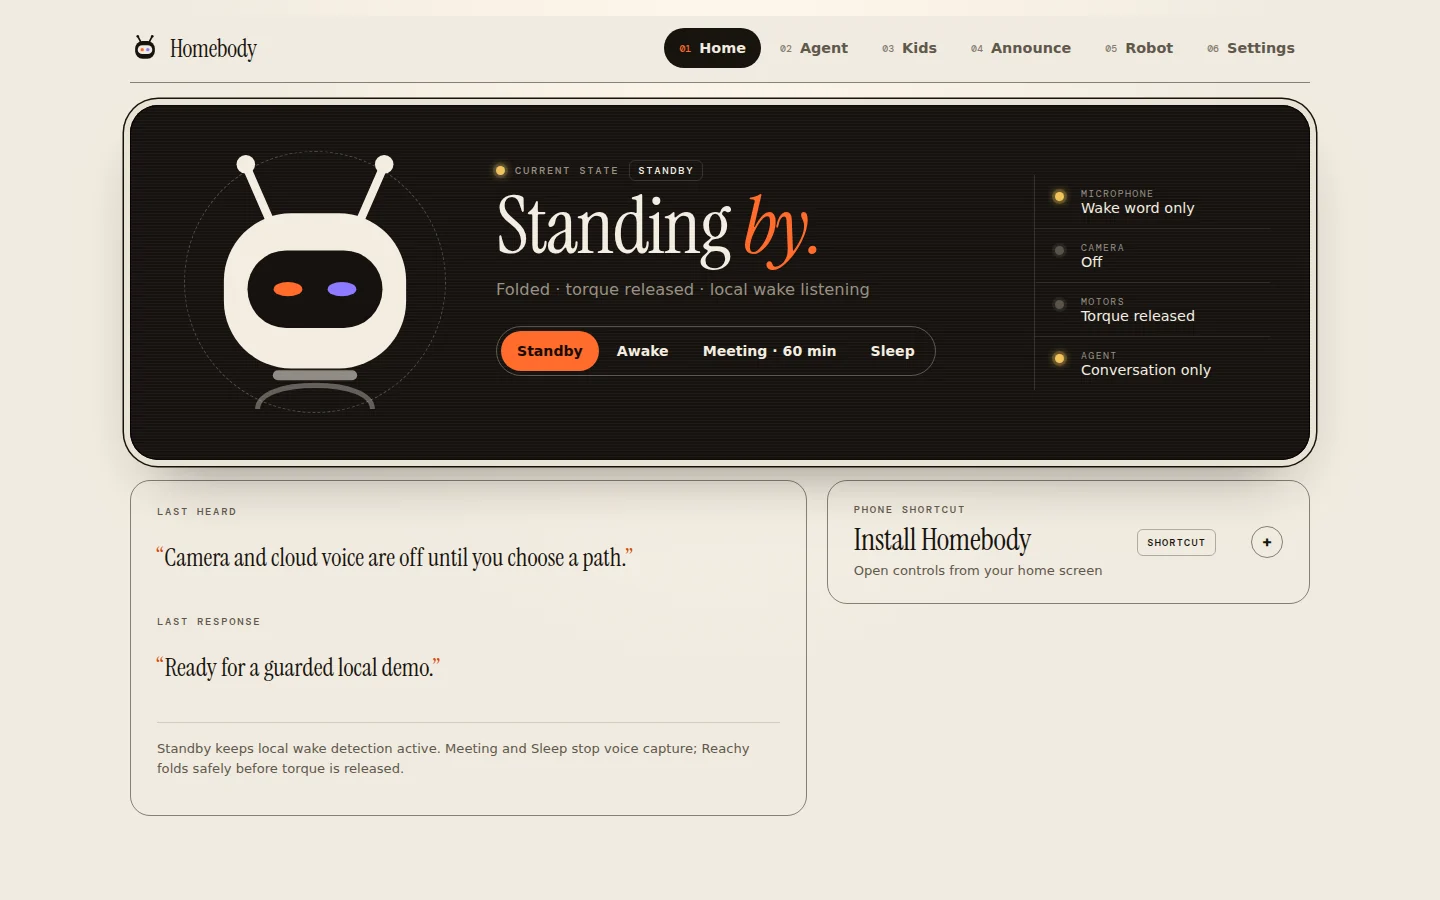
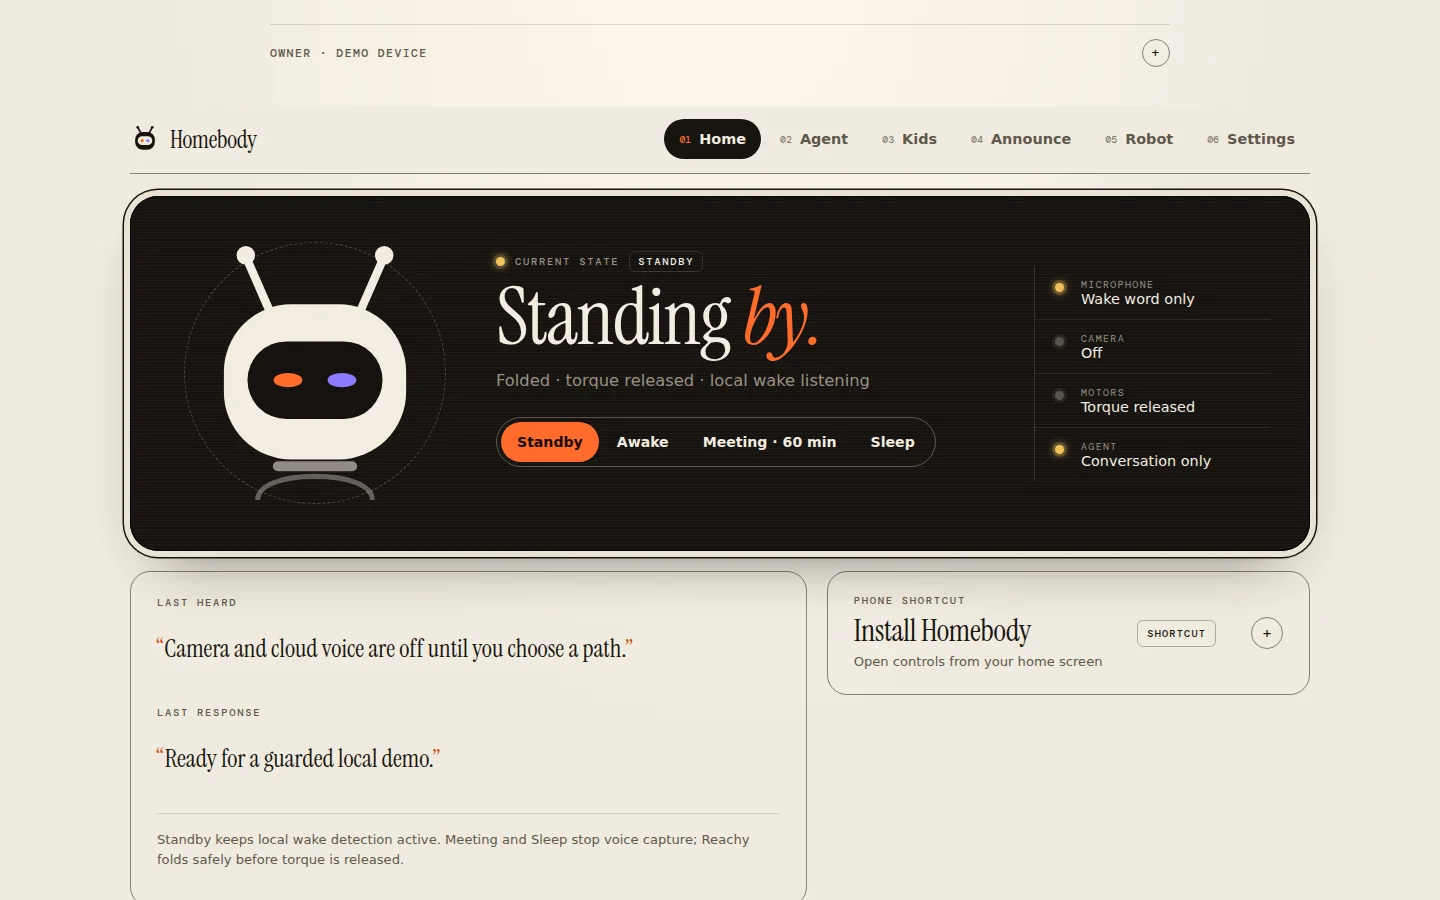
Give every disclosure the same round key and refresh the UI captures
Every <details> in the dashboard (Settings sections, Session details, the
initiative disclosures and the owner-device strip) now opens with the same
round + / − key on the right that the Robot cards already used, instead of
the browser's default triangle. The owner pairing panel joins the design
system with the serif heading and a single column.

The screenshot script answers /api/owner/session locally, since the dashboard
now stays hidden until an Owner device is confirmed, and the three docs
captures are retaken. The app page card on Hugging Face takes the orange
gradient of the new icon. PWA shell v62.

Claude-Session: https://claude.ai/code/session_01F9j5PGE2fabBBUai6D5XwD

diff --git a/homebody/static/style.css b/homebody/static/style.css
@@ -69,6 +69,17 @@ body {
 .owner-access { width: min(900px, calc(100% - 48px)); margin: 24px auto; }
 .owner-access input { width: 100%; }
 .owner-access code { overflow-wrap: anywhere; }
+#owner-pair-panel { max-width: 560px; padding-top: clamp(24px, 8vh, 96px); }
+#owner-pair-panel h1 { margin: 0 0 14px; font-family: var(--serif); font-size: clamp(2.4rem, 5vw, 3.4rem); font-weight: 400; line-height: .95; letter-spacing: -.02em; }
+#owner-pair-panel > p { color: var(--ink-2); line-height: 1.6; }
+#owner-pair-panel form { display: grid; gap: 16px; margin-top: 22px; }
+#owner-pair-panel button { width: 100%; }
+#owner-message { margin-top: 14px; font-size: .9rem; color: var(--ink-2); }
+#owner-device-controls { padding: 14px 0 0; border-top: 1px solid var(--line); }
+#owner-device-controls > summary { font-family: var(--mono); font-size: .72rem; font-weight: 500; letter-spacing: .12em; text-transform: uppercase; color: var(--ink-2); }
+#owner-device-controls > summary::after { width: 26px; height: 26px; font-size: .9rem; }
+#owner-device-controls button { margin: 8px 8px 0 0; }
+#owner-device-list { margin: 12px 0 0; padding-left: 18px; color: var(--ink-2); line-height: 1.6; }
 main { width: min(1180px, calc(100% - 48px)); margin: 0 auto; padding: calc(16px + env(safe-area-inset-top)) 0 calc(72px + env(safe-area-inset-bottom)); }
 
 /* Dark display surfaces: everything that shows what Reachy is doing right now. */
@@ -188,12 +199,12 @@ input[type="range"] { min-height: 0; padding: 0; border: 0; background: transpar
 .checkbox-row span, .checkbox-row strong, .checkbox-row small { display: block; min-width: 0; }
 .checkbox-row small { margin-top: 3px; color: var(--muted); font-weight: 400; line-height: 1.35; }
 details { border-top: 1px solid var(--line); padding-top: 15px; }
-summary { cursor: pointer; color: var(--text); font-weight: 650; }
-summary::marker { color: var(--orange-text); font-size: .8em; }
-.disclosure > summary, .disclosure-card > summary { list-style: none; }
-.disclosure > summary::-webkit-details-marker, .disclosure-card > summary::-webkit-details-marker { display: none; }
-.disclosure > summary::after, .disclosure-card > summary::after { content: "+"; flex: 0 0 auto; width: 30px; height: 30px; display: grid; place-items: center; border: 1.5px solid var(--rule); border-radius: 50%; color: var(--text); font-family: var(--mono); font-size: 1rem; }
-.disclosure[open] > summary::after, .disclosure-card[open] > summary::after { content: "−"; }
+/* Every disclosure uses the same control: the title on the left, a round + / − key on the right. */
+summary { display: flex; align-items: center; justify-content: space-between; gap: 12px; list-style: none; cursor: pointer; color: var(--text); font-weight: 650; }
+summary::-webkit-details-marker { display: none; }
+summary::after { content: "+"; flex: 0 0 auto; width: 30px; height: 30px; display: grid; place-items: center; border: 1.5px solid var(--rule); border-radius: 50%; color: var(--text); font-family: var(--mono); font-size: 1rem; font-weight: 400; transition: background .15s ease; }
+summary:hover::after { background: var(--btn2-hover); }
+details[open] > summary::after { content: "−"; }
 .precision-group.disclosure { padding-top: 18px; }
 .precision-group.disclosure:not([open]) > summary { margin-bottom: 0; }
 .disclosure-card { padding: 0; overflow: hidden; }

diff --git a/homebody/static/index.html b/homebody/static/index.html
@@ -13,7 +13,7 @@
   <link rel="manifest" href="/manifest.webmanifest" />
   <link rel="icon" href="/static/icon-192.png" sizes="192x192" />
   <link rel="apple-touch-icon" href="/static/icon-192.png" />
-  <link rel="stylesheet" href="/static/style.css?v=61">
+  <link rel="stylesheet" href="/static/style.css?v=62">
 </head>
 <body>
   <section id="owner-pair-panel" class="owner-access" aria-labelledby="owner-pair-title">
@@ -896,9 +896,9 @@
       </section>
     </div>
   </main>
-  <script src="/static/owner.js?v=61"></script>
+  <script src="/static/owner.js?v=62"></script>
   <script src="/static/gstwebrtc-api.js"></script>
-  <script src="/static/camera.js?v=61"></script>
-  <script src="/static/main.js?v=61"></script>
+  <script src="/static/camera.js?v=62"></script>
+  <script src="/static/main.js?v=62"></script>
 </body>
 </html>

diff --git a/homebody/static/service-worker.js b/homebody/static/service-worker.js
@@ -1,12 +1,12 @@
-const CACHE_NAME = "homebody-shell-v61";
+const CACHE_NAME = "homebody-shell-v62";
 const APP_SHELL = [
   "/",
   "/manifest.webmanifest",
-  "/static/style.css?v=61",
+  "/static/style.css?v=62",
   "/static/gstwebrtc-api.js",
-  "/static/camera.js?v=61",
-  "/static/main.js?v=61",
-  "/static/owner.js?v=61",
+  "/static/camera.js?v=62",
+  "/static/main.js?v=62",
+  "/static/owner.js?v=62",
   "/static/icon-192.png",
   "/static/icon-512.png",
   "/static/icon-maskable-512.png",

diff --git a/docs/tools/capture_ui_screenshots.py b/docs/tools/capture_ui_screenshots.py
@@ -69,6 +69,10 @@ def _serve(route: Route) -> None:
     elif path.startswith("static/") and (STATIC / path[len("static/") :]).is_file():
         file = STATIC / path[len("static/") :]
         route.fulfill(path=str(file), content_type=mimetypes.guess_type(file.name)[0] or "application/octet-stream")
+    elif path == "api/owner/session":
+        # The dashboard stays hidden until a remembered Owner device is confirmed; this is a synthetic one.
+        owner = {"owner": True, "name": "Demo device", "csrf": "capture"}
+        route.fulfill(content_type="application/json", body=json.dumps(owner))
     elif path == "api/status":
         route.fulfill(content_type="application/json", body=json.dumps(SYNTHETIC_STATUS))
     elif path == "api/agent-setup/start":

diff --git a/tests/test_kids_mode.py b/tests/test_kids_mode.py
@@ -614,10 +614,10 @@ def test_kids_tab_has_activities_direct_controls_disclosures_and_end_button() ->
 def test_kids_static_assets_advance_pwa_cache_together() -> None:
     html = (STATIC / "index.html").read_text(encoding="utf-8")
     worker = (STATIC / "service-worker.js").read_text(encoding="utf-8")
-    assert "homebody-shell-v61" in worker
+    assert "homebody-shell-v62" in worker
     for asset in ("style.css", "camera.js", "main.js"):
-        assert f"/static/{asset}?v=61" in html
-        assert f'"/static/{asset}?v=61"' in worker
+        assert f"/static/{asset}?v=62" in html
+        assert f'"/static/{asset}?v=62"' in worker
 
 
 def test_runtime_reports_kids_session_start_replacement_and_end_to_bridge() -> None:

diff --git a/tests/test_home_assistant_bridge.py b/tests/test_home_assistant_bridge.py
@@ -143,10 +143,10 @@ def test_home_assistant_ui_exposes_nested_opt_ins_and_v44_assets() -> None:
         assert element_id in script
     assert "dedicated Awake switch to run guarded wake/standby transitions" in html
     assert "toggleHomeAssistantOptions" in script
-    assert "homebody-shell-v61" in worker
+    assert "homebody-shell-v62" in worker
     for asset in ("style.css", "camera.js", "main.js"):
-        assert f"/static/{asset}?v=61" in html
-        assert f'"/static/{asset}?v=61"' in worker
+        assert f"/static/{asset}?v=62" in html
+        assert f'"/static/{asset}?v=62"' in worker
 
 
 def test_runtime_provider_maps_native_daemon_telemetry_without_enabling_controls() -> None:

diff --git a/tests/test_motor_ui.py b/tests/test_motor_ui.py
@@ -98,7 +98,7 @@ def test_motor_ui_serializes_power_transitions_and_reports_confirmed_state() -> 
     assert 'data-action-busy="true"' in style
     assert "position: fixed" in style
     assert 'data-action-busy="false"' in html
-    assert 'homebody-shell-v61' in worker
-    assert '/static/style.css?v=61' in html
-    assert '/static/camera.js?v=61' in html
-    assert '/static/main.js?v=61' in html
+    assert 'homebody-shell-v62' in worker
+    assert '/static/style.css?v=62' in html
+    assert '/static/camera.js?v=62' in html
+    assert '/static/main.js?v=62' in html

diff --git a/tests/test_pwa.py b/tests/test_pwa.py
@@ -129,7 +129,7 @@ def test_v44_ui_uses_dedicated_agent_workspace_and_contextual_offers() -> None:
     assert '"X-Reachy-Adult-UI": "unlocked"' in script
     assert 'if (!initiativeEditActive)' in script
     assert '$("initiative-badge").textContent = "Offline"' in script
-    assert 'homebody-shell-v61' in worker
+    assert 'homebody-shell-v62' in worker
 
 
 def test_shell_versions_agree_between_page_and_service_worker() -> None:

diff --git a/tests/test_agent_routes.py b/tests/test_agent_routes.py
@@ -581,7 +581,7 @@ def test_agent_05_trusted_ui_exposes_preview_budget_progress_and_control() -> No
     assert "/api/agent/run/status" in script
     assert "/api/agent/run/current" in script
     assert "Approve this exact step once?" in script
-    assert "homebody-shell-v61" in worker
+    assert "homebody-shell-v62" in worker
 
 
 def test_settings_require_current_key_to_change_bridge_credentials(monkeypatch) -> None:

diff --git a/tests/test_announcements.py b/tests/test_announcements.py
@@ -436,5 +436,5 @@ def test_announcement_ui_exposes_full_tts_controls_and_private_routes() -> None:
     assert 'id="announcement-live"' in html
     assert 'role="alert"' in html
     assert "Voice only · do not change power state" in html
-    assert "homebody-shell-v61" in worker
-    assert "/static/main.js?v=61" in html
+    assert "homebody-shell-v62" in worker
+    assert "/static/main.js?v=62" in html

diff --git a/tests/test_bluetooth.py b/tests/test_bluetooth.py
@@ -594,4 +594,4 @@ def test_bluetooth_ui_exposes_pairing_mapping_and_v35_assets() -> None:
     assert "/api/bluetooth/scan" in script
     assert "/api/bluetooth/gamepad" in script
     assert "if (body.last_error) throw new Error(body.last_error);" in script
-    assert "homebody-shell-v61" in worker
+    assert "homebody-shell-v62" in worker

diff --git a/CHANGELOG.md b/CHANGELOG.md
@@ -33,6 +33,7 @@ The format is based on [Keep a Changelog](https://keepachangelog.com/en/1.1.0/).
 
 ### Changed
 
+- Every collapsible section in the dashboard now opens with the same round + / − key on the right, replacing the browser's default triangle on the Settings sections, Session details and the initiative disclosures. The app page card on Hugging Face uses the orange gradient of the new icon.
 - The Home Assistant voice and announcement temporary files now use the `homebody-ha-` and `homebody-announcement-` prefixes, matching the rest of the app.
 - Redesigned the dashboard as a cream enclosure with dark displays set into it. The Home tab opens on a device-style display: a large Reachy face whose eyes and antennas follow the runtime state, the state written as a sentence ("Standing by."), the power control, and a microphone, camera, motors and agent telemetry rail. Live-state surfaces on the other tabs (motor state, Agent Mode, Kids session, announcement queue) use the same dark display; controls and settings sit on the enclosure. Tabs move to a numbered top bar on desktop and a fixed bottom bar on phones. Instrument Serif and DM Mono are bundled as subset WOFF2 files, so the page still makes no outside requests, and the app icon was redrawn to match; PWA shell v56. A night palette follows the system dark setting. The Hugging Face landing page (`index.html`, `style.css`) uses the same enclosure-and-display language and the same bundled fonts, so it no longer loads Google Fonts.
 - Renamed the app from Reachy Mini Hermes to **Homebody**: package `reachy-mini-homebody` 0.4.0, module `homebody`, Reachy app `reachy_mini_homebody`, class `Homebody` and CLI `homebody`. Hermes Agent remains the reference agent backend alongside OpenClaw.
